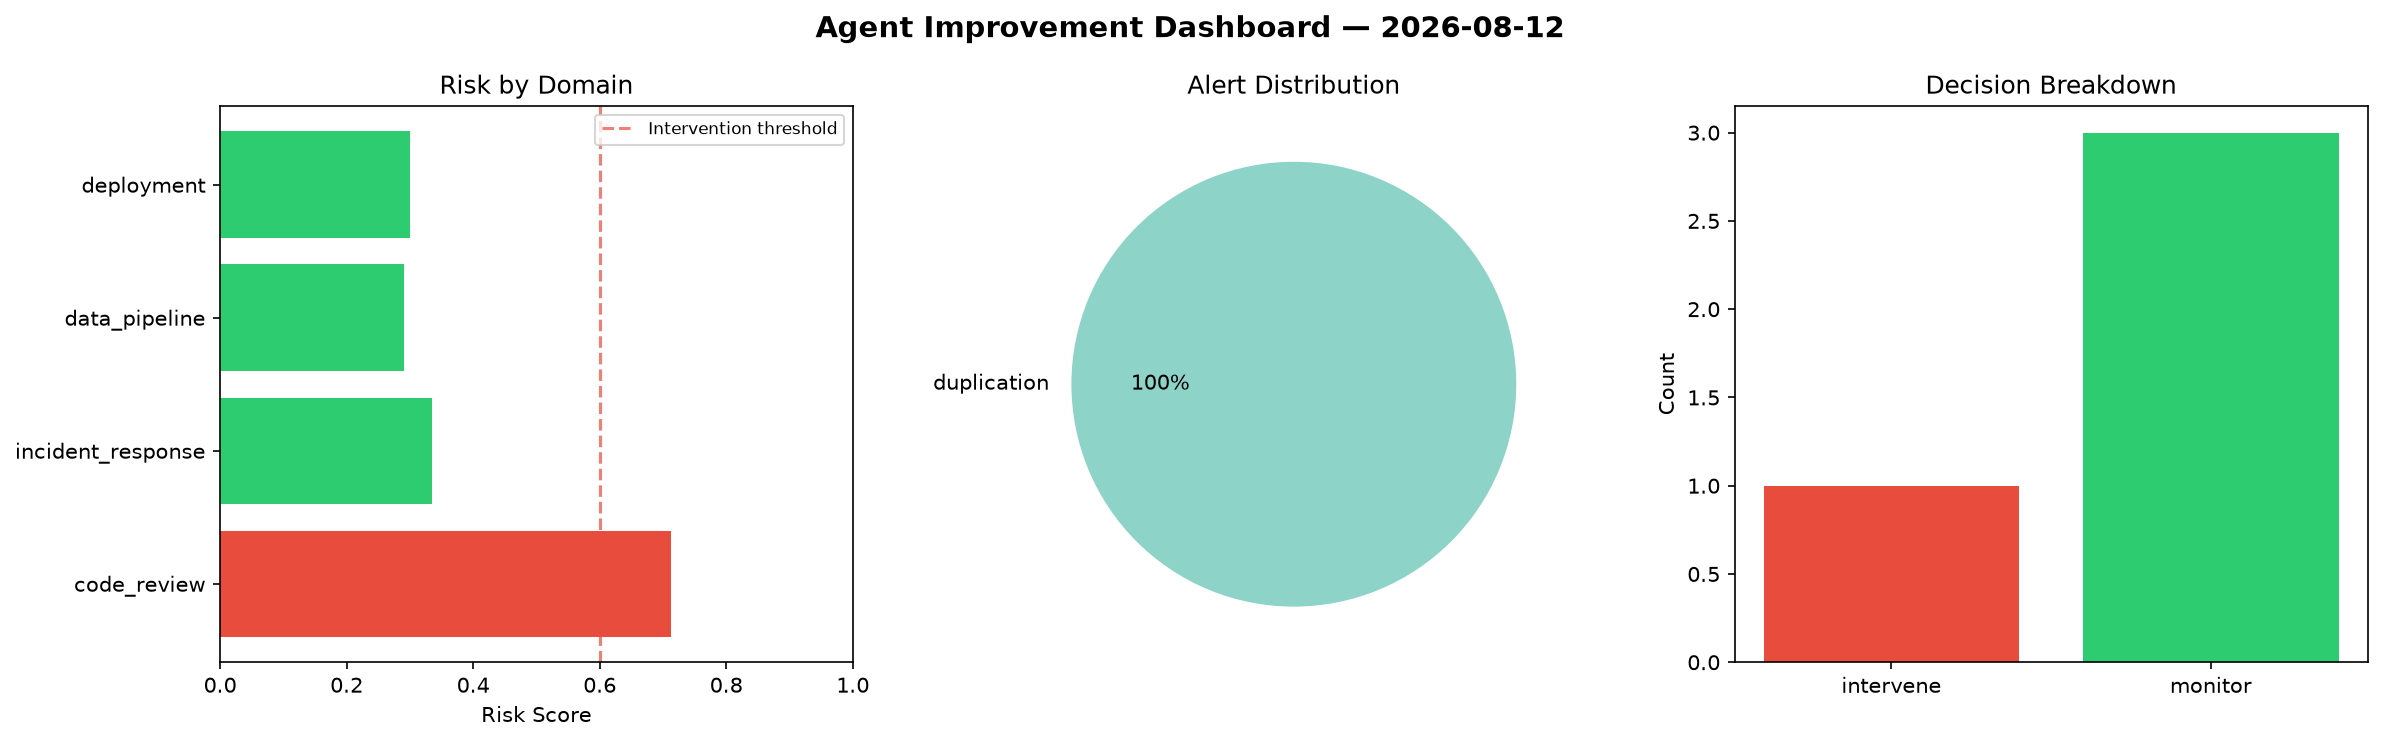
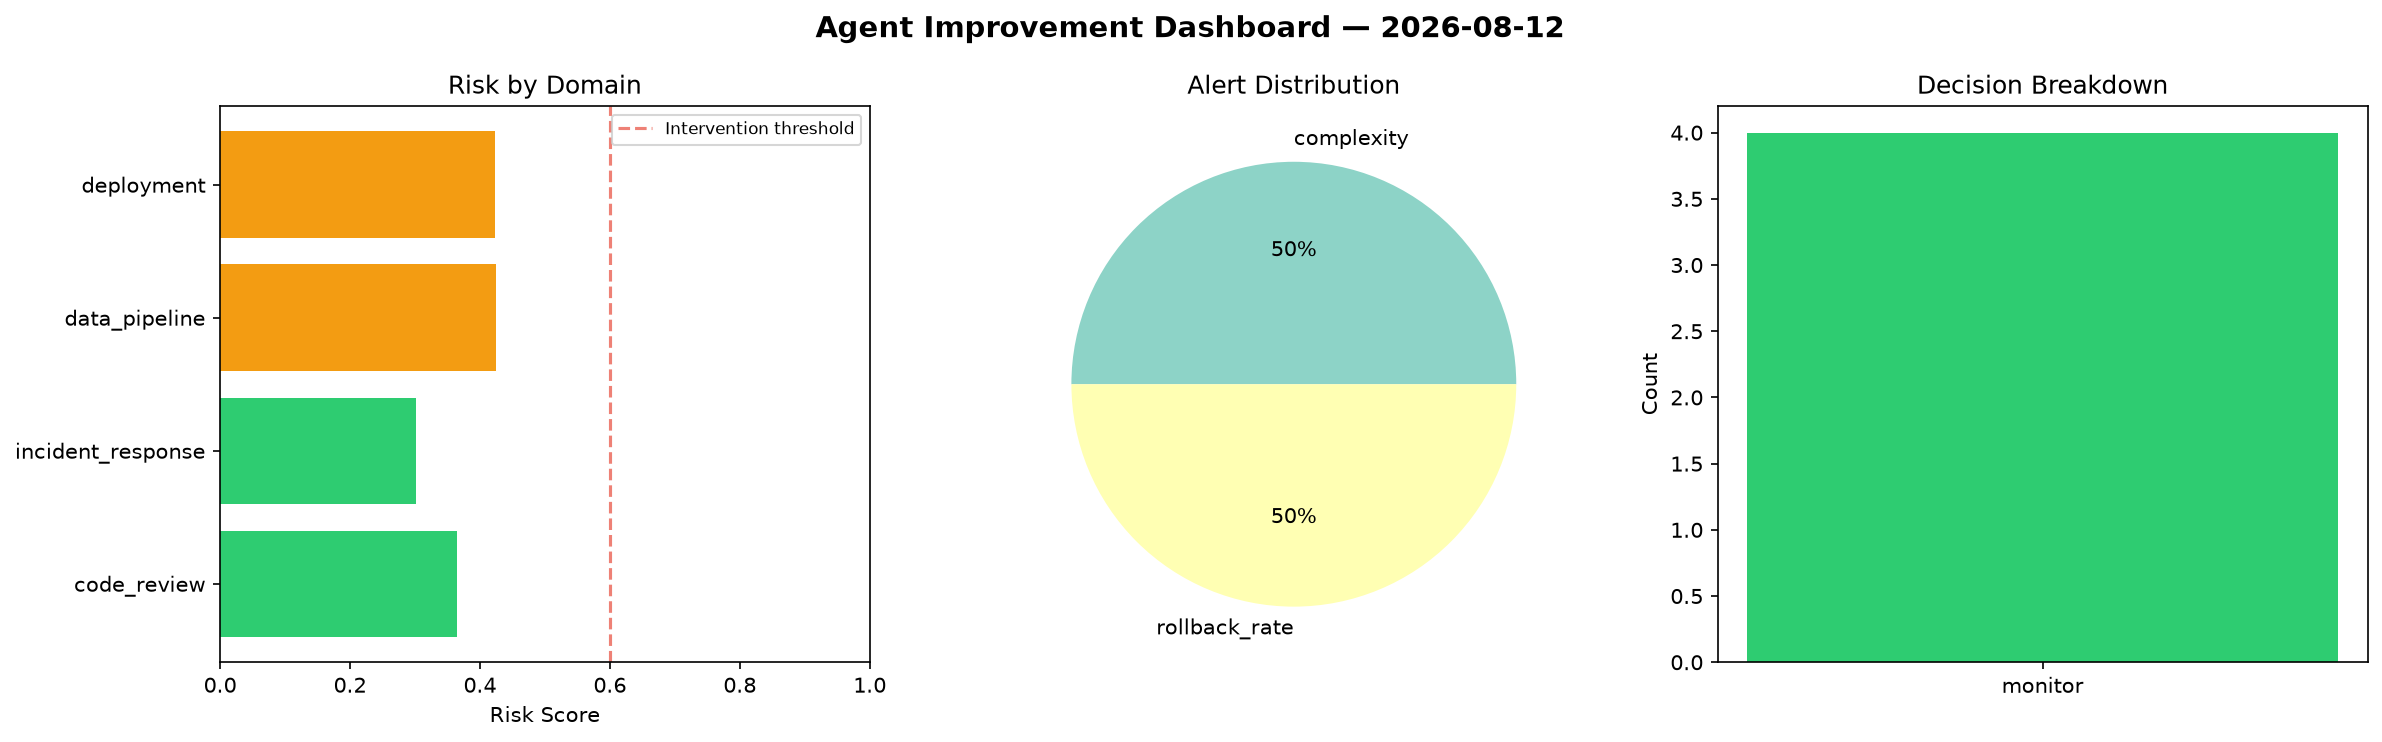
agent-improvement: daily cycle 2026-08-12T09:31

diff --git a/logs/2026-08-12.md b/logs/2026-08-12.md
@@ -1,6 +1,6 @@
 # Agent Improvement Report — 2026-08-12
 
-**Cycle ID:** `4623e6f4` | **Avg Risk:** 0.4098 | **Interventions:** 1/4
+**Cycle ID:** `7e4f0b1c` | **Avg Risk:** 0.379 | **Interventions:** 0/4
 
 ![Dashboard](2026-08-12_dashboard.png)
 
@@ -10,18 +10,18 @@
 
 | Domain | Risk Score | Decision | Alerts |
 |--------|-----------|----------|--------|
-| code_review | 0.7128 | intervene | duplication |
-| incident_response | 0.3348 | monitor | none |
-| data_pipeline | 0.2914 | monitor | none |
-| deployment | 0.3 | monitor | none |
+| code_review | 0.3648 | monitor | complexity |
+| incident_response | 0.302 | monitor | none |
+| data_pipeline | 0.4254 | monitor | none |
+| deployment | 0.4236 | monitor | rollback_rate |
 
 ## Delta vs Yesterday
 
 | Domain | Today | Yesterday | Change |
 |--------|-------|-----------|--------|
-| code_review | 0.7128 | 0.3434 | 📈 107.6% |
-| incident_response | 0.3348 | 0.4841 | 📉 -30.8% |
-| data_pipeline | 0.2914 | 0.5155 | 📉 -43.5% |
-| deployment | 0.3 | 0.4669 | 📉 -35.7% |
+| code_review | 0.3648 | 0.3434 | 📈 6.2% |
+| incident_response | 0.302 | 0.4841 | 📉 -37.6% |
+| data_pipeline | 0.4254 | 0.5155 | 📉 -17.5% |
+| deployment | 0.4236 | 0.4669 | 📉 -9.3% |
 
-**Refinement:** `{'adjustment': 'maintain', 'trend': 'improving', 'window': 4}`
+**Refinement:** `{'adjustment': 'tighten_thresholds', 'trend': 'degrading', 'window': 4}`
